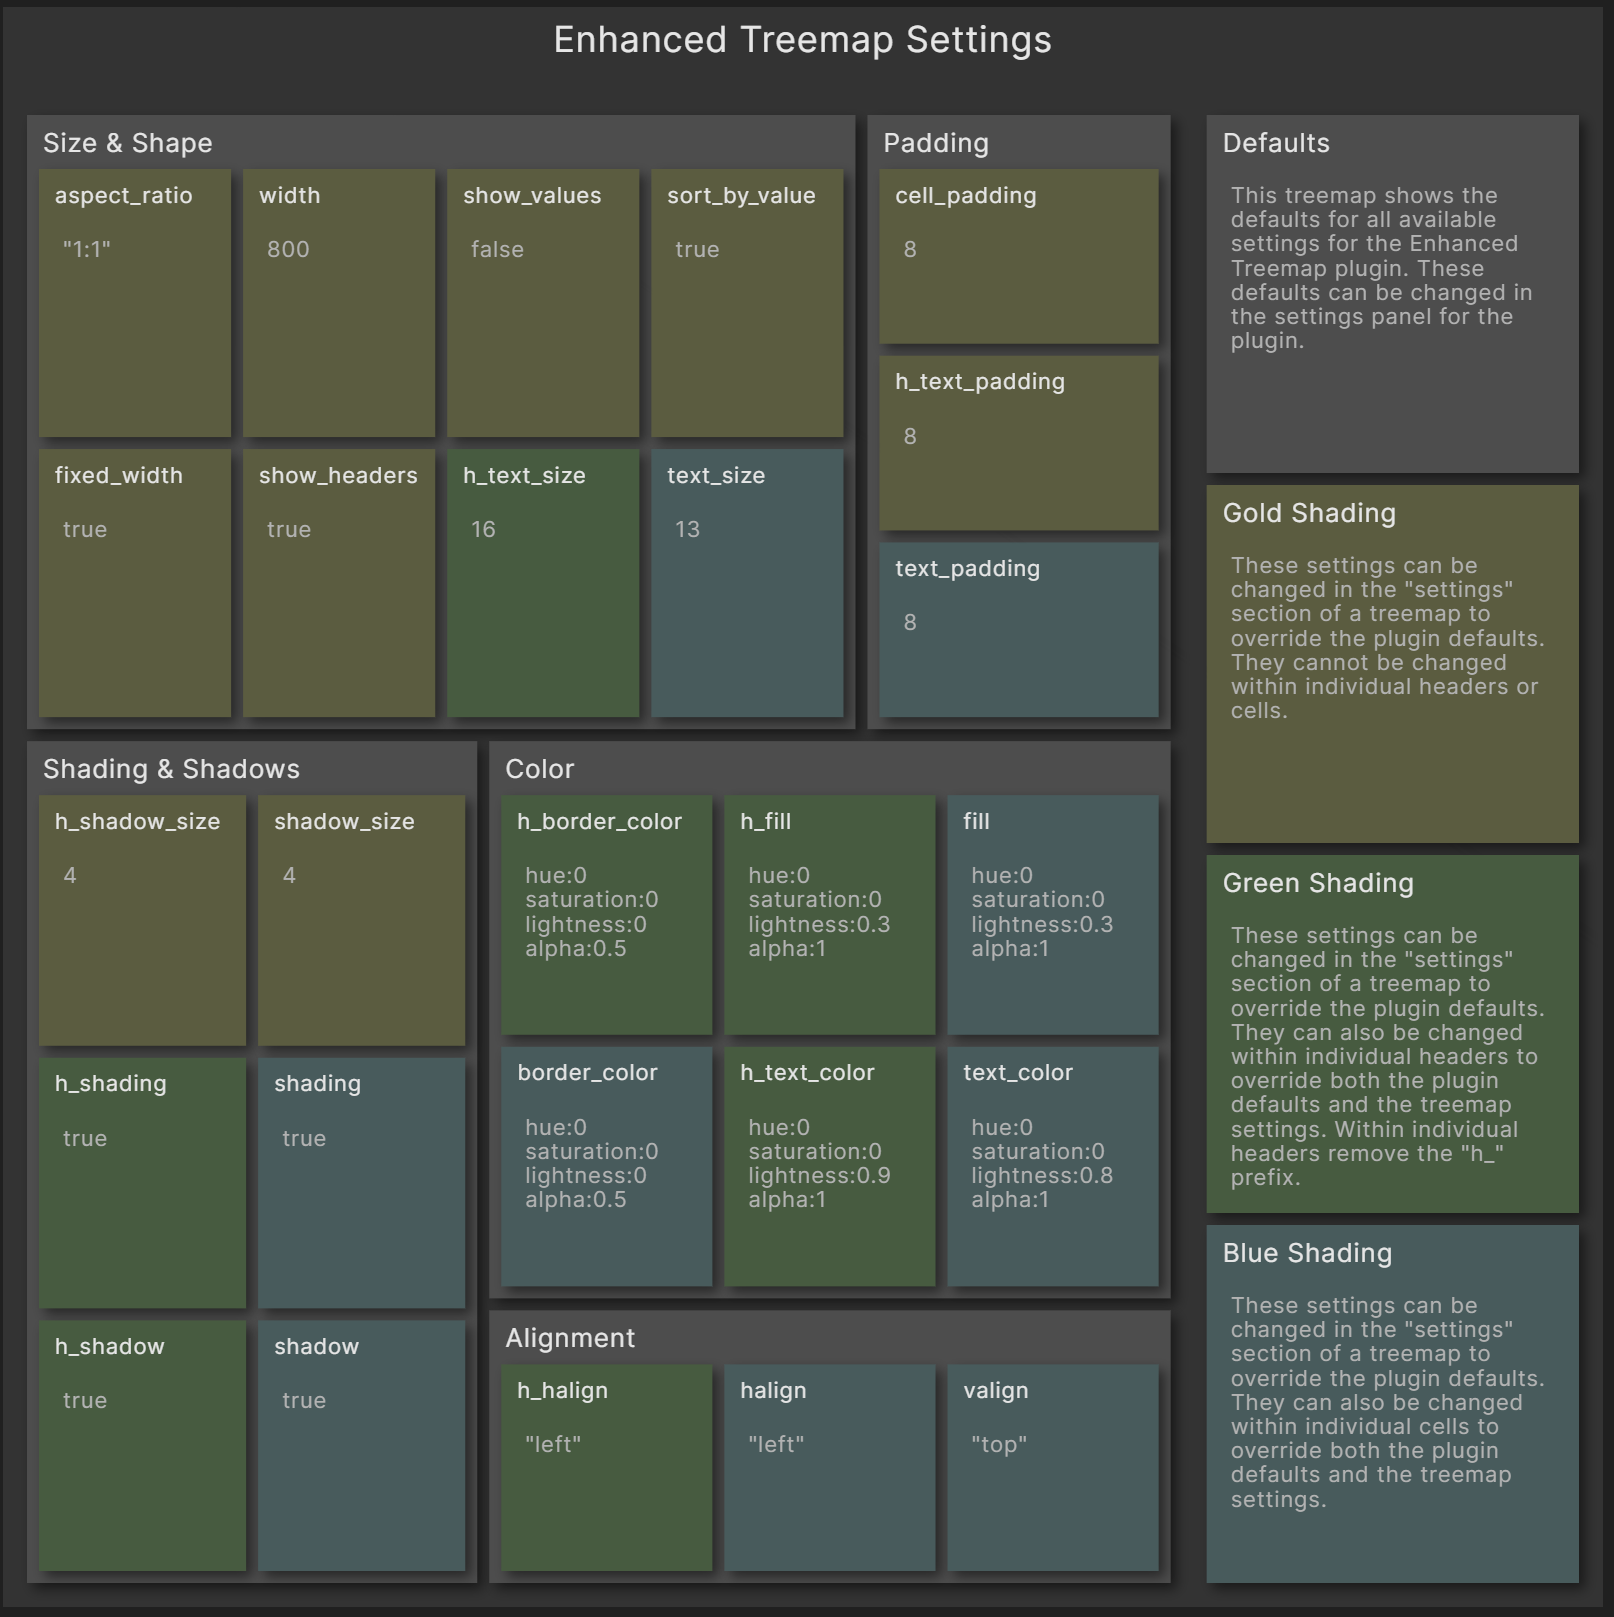
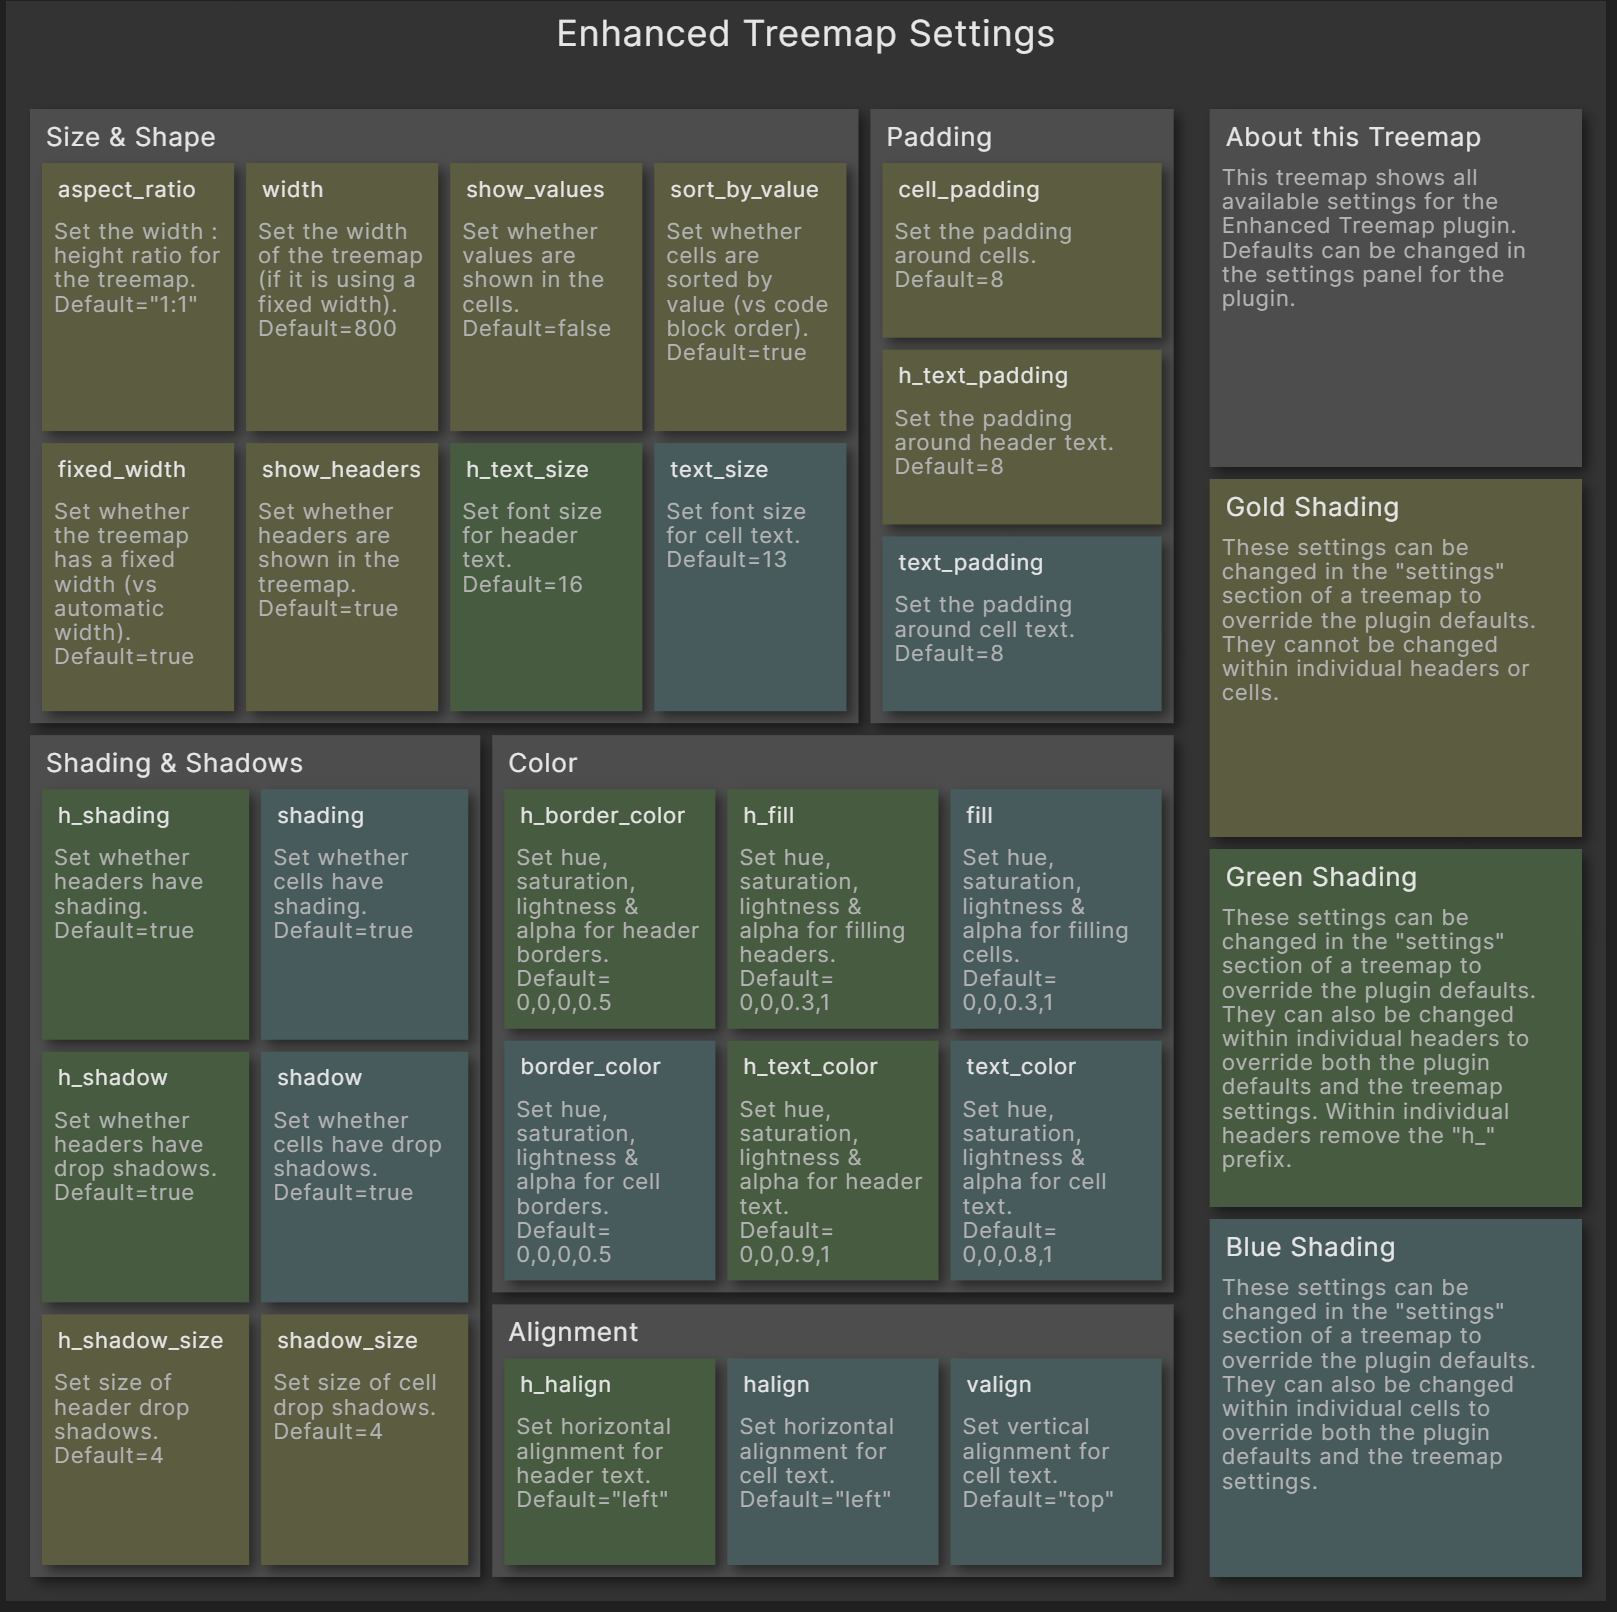
Updated settings treemap with descriptions for each setting

diff --git a/README.md b/README.md
@@ -1,22 +1,16 @@
 # Obsidian Enhanced Treemap Plugin
 
 This is a data visualization plugin for [Obsidian](https://obsidian.md), based on [D3.js](https://d3js.org), that allows for the creation of [Nested Treemaps](https://observablehq.com/@d3/nested-treemap).
+Treemaps are a useful way to visualize hierarchical data in a very compact form.
+Normally treemaps only show text for the leaves of the tree, however nested treemaps also show text for the branches.
 
 - [Simple Example](#simple-example)
 - [Settings](#settings)
-- [Options](#options)
-    - [Size & Shape Settings](#size--shape-settings)
-    - [Alignment Settings](#alignment-settings)
-    - [Color Settings](#color-settings)
-    - [Other Styling Settings](#other-styling-settings)
 
 ## Simple Example
 
-After installing and enabling the plugin, treemaps can be added to notes by creating json code blocks.
-- Only json code blocks are checked.
-- The first two rows inside the code block must be exactly as shown below.
-- Each cell must have a **"name"** element. The value for this element will be shown as the text for the cell.
-- The children for a cell must be contained in a **"children"** array.
+After installing and enabling the plugin, treemaps can be added to notes by creating JSON code blocks. 
+The root element of the JSON code block must contain an element "type": "enhancedtreemap".
 
 <pre>
 ```json
@@ -35,7 +29,7 @@ After installing and enabling the plugin, treemaps can be added to notes by crea
 
 ## Settings
 
-Here is the [JSON code block](example/Settings.md) used to create the treemap below.
+The treemap below describes all of the available settings for the Enhanced Treemap plugin. Here is the [JSON code block](example/Settings.md) used to create it.
 
 ![Settings Image](./examples/Settings.png)
 
